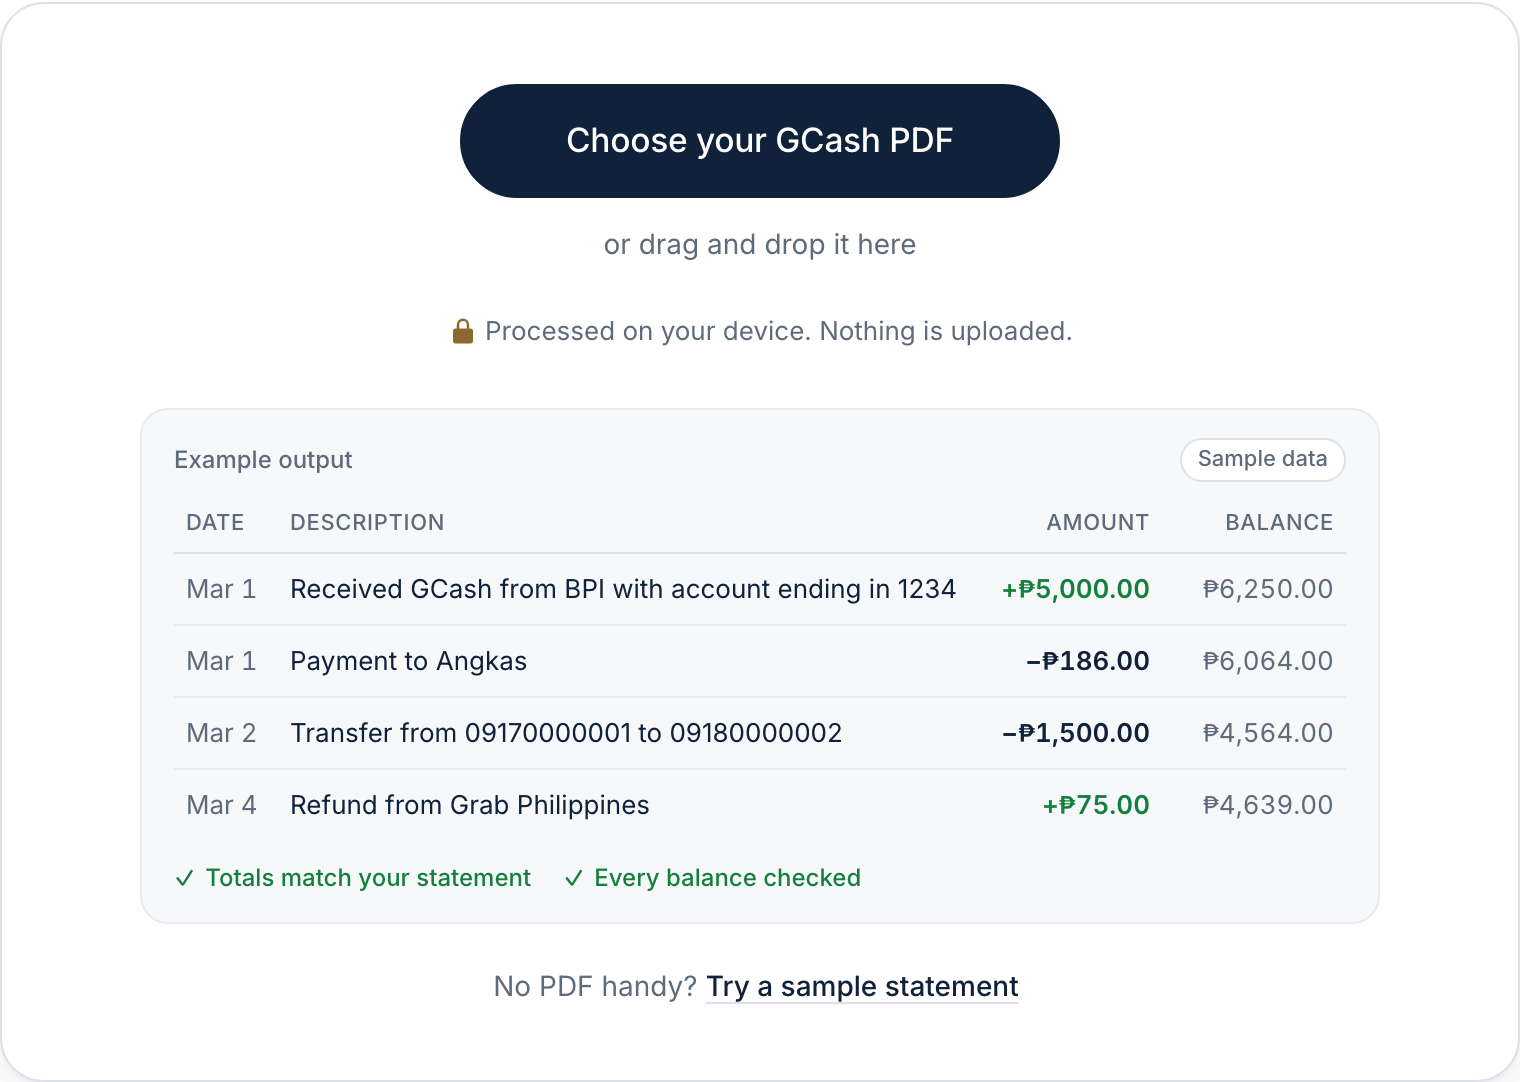
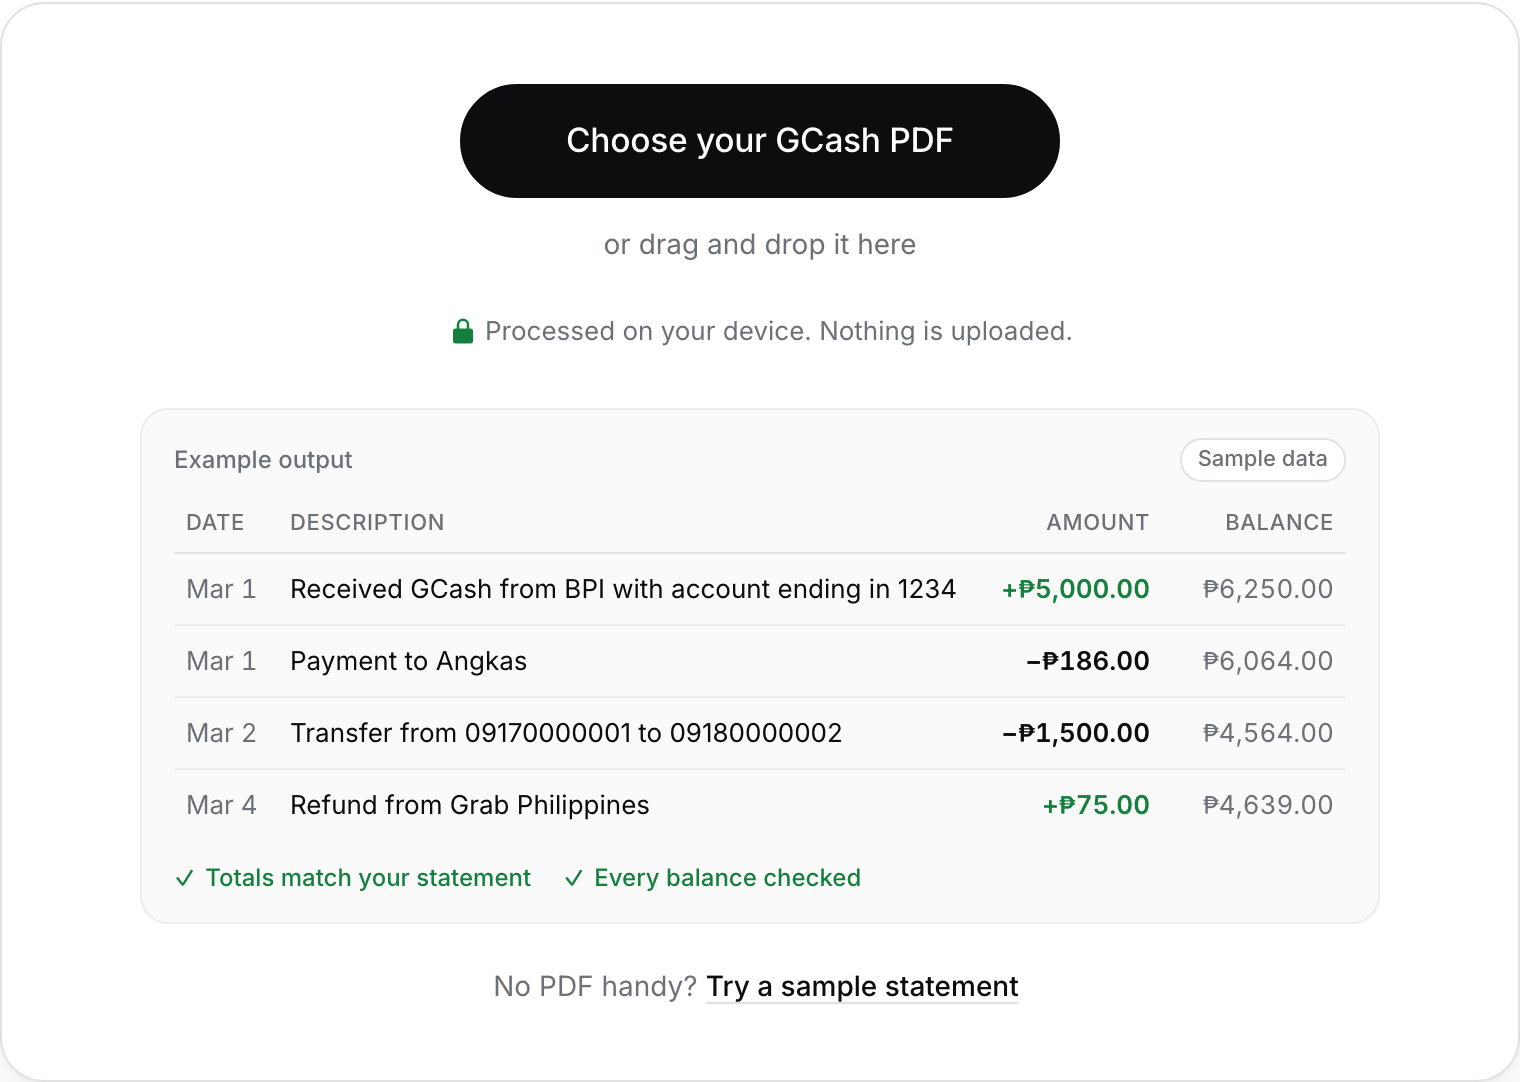
Revert "New palette: navy #10213A + gold #C9A15B"
This reverts commit 30e9e139336de206b40c1e68e4e7798cae4763c8.

diff --git a/src/styles/global.css b/src/styles/global.css
@@ -12,38 +12,28 @@
 
 :root {
   color-scheme: light;
-  /* Brand: navy ink + gold accent. Gold (#c9a15b) is 2.4:1 on white, so it is used for fills and
-     accents only; gold TEXT uses --gold-text (5:1). Green stays the "money in / match" signal and
-     warnings are terracotta, so neither can be mistaken for the gold brand accent. */
   --bg: #ffffff;
-  --subtle: #f7f8fa;
-  --ink: #10213a;
-  --ink-hover: #1b3358;
-  --text: #10213a;
-  --body: #3b4a5e;
-  --muted: #5e6b7d;
-  --faint: #8a94a3; /* large/decorative text only (≥3:1); small text uses --muted */
-  --line: #e8ebf0;
-  --line-strong: #dce1e8;
-  --gold: #c9a15b;
-  --gold-hover: #d4b073;
-  --gold-text: #8a6a2f;
-  --gold-tint: #faf5ea;
-  --gold-line: #ebddbe;
+  --subtle: #fafafa;
+  --ink: #0b0d0e;
+  --text: #0b0d0e;
+  --body: #3d4247;
+  --muted: #6b7177;
+  --faint: #868c92; /* large/decorative text only (≥3:1); small text uses --muted */
+  --line: #ececee;
+  --line-strong: #dfe1e4;
   --green: #15803d;
   --green-bright: #16a34a;
   --green-tint: #effaf3;
-  --focus: #b07f2a;
-  --warn-bg: #fff4ed;
-  --warn-line: #fbd5bd;
-  --warn-text: #9a3412;
-  --warn-hover: #ffead9;
+  --focus: #2563eb;
+  --warn-bg: #fffaeb;
+  --warn-line: #f6e2a8;
+  --warn-text: #7a4b05;
   --radius-sm: 10px;
   --radius: 14px;
   --radius-lg: 22px;
   --shadow:
-    0 1px 2px rgb(16 33 58 / 4%), 0 8px 24px -10px rgb(16 33 58 / 10%),
-    0 30px 60px -30px rgb(16 33 58 / 16%);
+    0 1px 2px rgb(16 18 20 / 4%), 0 8px 24px -10px rgb(16 18 20 / 10%),
+    0 30px 60px -30px rgb(16 18 20 / 14%);
   --font: "Inter", -apple-system, BlinkMacSystemFont, "Segoe UI", Roboto, sans-serif;
   font-family: var(--font);
   font-feature-settings: "cv11", "ss01";
@@ -55,11 +45,6 @@
 *::before,
 *::after {
   box-sizing: border-box;
-}
-
-::selection {
-  background: var(--gold-tint);
-  color: var(--ink);
 }
 
 body {
@@ -291,7 +276,7 @@ button {
 .btn-primary:hover,
 .btn-big:hover,
 .cta-link:hover {
-  background: var(--ink-hover);
+  background: #26292c;
   color: #fff;
 }
 .btn-primary:active,
@@ -406,8 +391,8 @@ button {
   }
 }
 .panel.dragging {
-  border-color: var(--gold);
-  background: var(--gold-tint);
+  border-color: var(--green-bright);
+  background: var(--green-tint);
 }
 .panel-state {
   width: 100%;
@@ -427,7 +412,7 @@ button {
   color: var(--muted);
 }
 .panel-privacy svg {
-  color: var(--gold-text);
+  color: var(--green);
   vertical-align: -3px;
   margin-right: 4px;
 }
@@ -493,7 +478,7 @@ button {
 .password-field input:focus {
   outline: none;
   border-color: var(--ink);
-  box-shadow: 0 0 0 4px rgb(201 161 91 / 25%);
+  box-shadow: 0 0 0 4px rgb(11 13 14 / 8%);
 }
 .password-toggle {
   position: absolute;
@@ -552,9 +537,8 @@ button {
   height: 44px;
   margin: 0 auto 14px;
   border-radius: 50%;
-  background: var(--gold-tint);
-  color: var(--gold-text);
-  box-shadow: inset 0 0 0 1px var(--gold-line);
+  background: var(--green-tint);
+  color: var(--green);
   font-size: 1.2rem;
 }
 #state-done {
@@ -925,7 +909,7 @@ tbody tr:last-child > * {
   background: var(--bg);
   color: var(--text);
   box-shadow:
-    0 1px 2px rgb(16 33 58 / 8%),
+    0 1px 2px rgb(16 18 20 / 8%),
     0 0 0 1px var(--line-strong);
 }
 .seg-count {
@@ -963,7 +947,7 @@ tbody tr:last-child > * {
 .tx-controls input[type="search"]:focus {
   outline: none;
   border-color: var(--ink);
-  box-shadow: 0 0 0 4px rgb(201 161 91 / 25%);
+  box-shadow: 0 0 0 4px rgb(11 13 14 / 8%);
 }
 
 /* transactions table */
@@ -991,7 +975,7 @@ tbody tr:last-child > * {
   background: var(--warn-bg);
 }
 .tx-table tr.flagged:hover > td {
-  background: var(--warn-hover);
+  background: #fff4d6;
 }
 .tx-empty {
   margin: 0;
@@ -1241,7 +1225,7 @@ tbody tr:last-child > * {
   display: block;
   font-size: 0.8125rem;
   font-weight: 500;
-  color: var(--gold-text);
+  color: var(--green);
   margin-bottom: 10px;
 }
 .section-head {
@@ -1291,7 +1275,7 @@ tbody tr:last-child > * {
 }
 .cta-band {
   background: var(--ink);
-  color: #c3cbd8;
+  color: #c9cdd1;
   border-radius: var(--radius-lg);
   padding: 48px 40px;
   display: flex;
@@ -1324,13 +1308,12 @@ tbody tr:last-child > * {
   max-width: 52ch;
 }
 .cta-band .btn-light {
-  background: var(--gold);
+  background: #fff;
   color: var(--ink);
-  border: 1px solid var(--gold);
+  border: 1px solid #fff;
 }
 .cta-band .btn-light:hover {
-  background: var(--gold-hover);
-  border-color: var(--gold-hover);
+  background: #e9ebed;
   color: var(--ink);
 }
 @media (max-width: 559px) {
@@ -1406,7 +1389,7 @@ main.page-top {
 }
 .prose .eyebrow {
   margin: 0;
-  color: var(--gold-text);
+  color: var(--green);
   font-size: 0.8125rem;
   line-height: 1.6;
 }
@@ -1520,7 +1503,7 @@ main.page-top {
   color: var(--muted);
 }
 .post-meta a {
-  color: var(--gold-text);
+  color: var(--green);
   text-decoration: none;
   font-weight: 500;
 }

diff --git a/CLAUDE.md b/CLAUDE.md
@@ -222,12 +222,17 @@ Never store the password (no localStorage, no URL params).
 - Languages: English first; keep UI strings in one object so Filipino/Taglish can be added later.
 - Accessible: labels on inputs, keyboard usable, good contrast.
 - Light theme only (no dark mode). Design direction: minimal, premium fintech. Inter (self-hosted),
-  generous whitespace, hairline dividers, a subtle "wallet → spreadsheet" motif.
-- Palette (tokens in `src/styles/global.css`): navy ink `#10213A` (text, buttons, dark band, logo
-  tile) and gold `#C9A15B` (logo, accents, fills). Gold is 2.4:1 on white, so never use it for
-  text; gold text uses `#8A6A2F`. Green `#15803D` is reserved for "money in" and "✓ Match";
-  warnings are terracotta `#9A3412`, so neither can be confused with the gold accent.
-  No GCash brand colours.
+  near-black ink and black pill buttons, one accent (spreadsheet green), hairline dividers, generous
+  whitespace, and a subtle "wallet → spreadsheet" motif. No GCash brand colours.
+
+## SEO requirements
+
+SEO is the main growth channel, so build it in from the start. Users search in plain English and
+Taglish, e.g. "gcash transaction history to excel", "how to download gcash transaction history",
+"gcash statement password", "gcash pdf to google sheets".
+
+### Every page must have
+
 - A unique `<title>` (≤ 60 chars) and meta description (≤ 155 chars) written for humans.
 - Exactly one `<h1>`; logical `h2`/`h3` structure.
 - `<link rel="canonical">` with the absolute URL (set `site` in `astro.config.mjs`).
